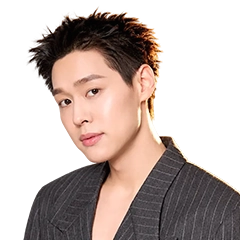
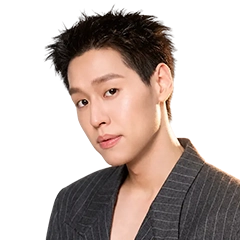
Add BILLKIN & WINNE to the Day 1 agenda and speaker list

diff --git a/index.html b/index.html
@@ -595,13 +595,12 @@
                                             <td>
                                                 <p class="agenda__session-title">FROM NOW ON</p>
                                                 <p class="agenda__session-summary">เรื่องลงทุนเริ่มวันนี้ ได้เปรียบวันหน้า</p>
-                                                <p class="agenda__session-speaker">To Be Determined</p>
+                                                <p class="agenda__session-speaker">BILLKIN & WINNE</p>
                                             </td>
-                                            <td class="agenda__speakers"><span class="agenda__speaker-frame" aria-label="พื้นที่รูปโปรไฟล์วิทยากร"><span class="agenda__speaker-photo"><img src="images/agenda/profile-empty.webp" width="928" height="1152" loading="lazy" decoding="async" alt=""></span></span></td>
-                                            <!-- <td class="agenda__speakers">
+                                            <td class="agenda__speakers">
                                                 <span class="agenda__speaker-frame" aria-label="พื้นที่รูปโปรไฟล์วิทยากรคนที่ 1"><span class="agenda__speaker-photo"><img src="images/agenda/day-1/D1-บิวกิ้น.webp" width="240" height="240" loading="lazy" decoding="async" alt="BILLKIN"></span></span>
-                                                <span class="agenda__speaker-frame" aria-label="พื้นที่รูปโปรไฟล์วิทยากรคนที่ 2"><span class="agenda__speaker-photo"><img src="images/agenda/day-1/D1-วินนี่.webp" width="240" height="240" loading="lazy" decoding="async" alt="Winni"></span></span>
-                                            </td> -->
+                                                <span class="agenda__speaker-frame" aria-label="พื้นที่รูปโปรไฟล์วิทยากรคนที่ 2"><span class="agenda__speaker-photo"><img src="images/agenda/day-1/D1-วินนี่.webp" width="240" height="240" loading="lazy" decoding="async" alt="WINNE"></span></span>
+                                            </td>
                                         </tr>
                                         <tr>
                                             <th scope="row"><time>13:40 – 14:10</time></th>

diff --git a/js/speaker-directory.js b/js/speaker-directory.js
@@ -51,20 +51,20 @@
                 role: 'Head of Business Development, efin Group',
                 image: 'day-1/D1-พสุธา-ไดจิ-อิเดะ.webp',
             },
+            {
+                name: 'BILLKIN',
+                role: '',
+                image: 'day-1/D1-บิวกิ้น.webp',
+            },
+            {
+                name: 'WINNE',
+                role: '',
+                image: 'day-1/D1-วินนี่.webp',
+            },
             // {
             //     name: 'คุณวิน พรหมแพทย์',
             //     role: 'ประธานกรรมการบริหาร บลจ. กสิกรไทย จำกัด',
             //     image: 'day-1/D1-วิน-พรหมแพทย์.webp',
-            // },
-            // {
-            //     name: 'BILLKIN',
-            //     role: 'Lorem ipsum dolor sit amet.',
-            //     image: 'day-1/D1-บิวกิ้น.webp',
-            // },
-            // {
-            //     name: 'Winni',
-            //     role: 'Lorem ipsum dolor sit amet.',
-            //     image: 'day-1/D1-วินนี่.webp',
             // },
         ],
         dayTwo: [
